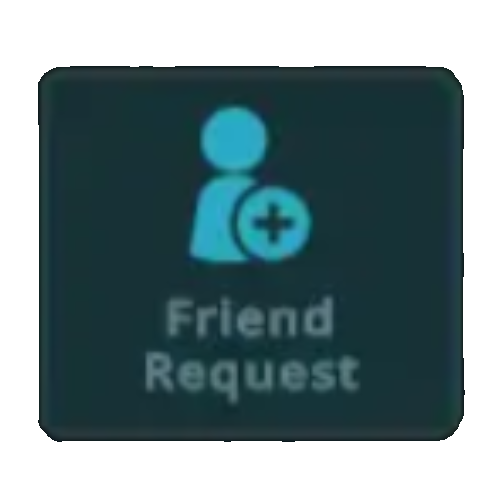
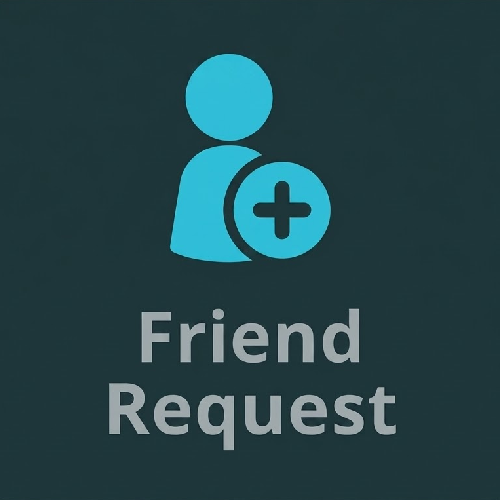
button over tailwind add

diff --git a/app/page.tsx b/app/page.tsx
@@ -201,7 +201,7 @@ export default function Home() {
               {/* Using standard img tag pointing to the public folder */}
               <Image
                 src="/vrc-card.png"
-                alt="VRChat Resident Card"
+                alt="VRChat Resident Card" 
                 className="w-full relative z-10 mix-blend-normal"
                 width={400}
                 height={250}
@@ -262,25 +262,28 @@ export default function Home() {
           </div>
           <p className="text-neutral-400 text-[10px]">
             <a
+              href="https://vrchat.com/home/user/usr_976b3f82-538b-4a14-bede-768dbee3784a"
+              target="_blank"
+              rel="noopener noreferrer"
+              className="inline-block rounded-sm transform-gpu transition duration-300 ease-out hover:scale-110 hover:shadow-[0_0_25px_8px_rgba(0,163,255,0.65)] hover:brightness-110"
+            >
+              <Image
+                src="/button.png"
+                alt="VRChat profile button"
+                width={100}
+                height={100}
+                className="inline-block rounded-xl"
+              />
+            </a>
+            <br />
+            <br />
+            <br />
+            <a
               href="https://luqmanhadi.com"
               target="_blank"
               rel="noopener noreferrer"
               className="text-blue-500 hover:text-blue-600"
             >
-            <br/>
-            <Link href="https://vrchat.com/home/user/usr_976b3f82-538b-4a14-bede-768dbee3784a" target="_blank" rel="noopener noreferrer" className="text-blue-500 hover:text-blue-600">
-            <Image
-              src="/button.png"
-              alt="add friend image"
-              width={100}
-              height={100}
-              className="inline-block mr-1 -mb-1 bg-black"
-            
-            />
-            </Link>
-            <br/>
-            <br/>
-            <br/>
               Visit My Website/個人サイトはこちらから
             </a>
           </p>
